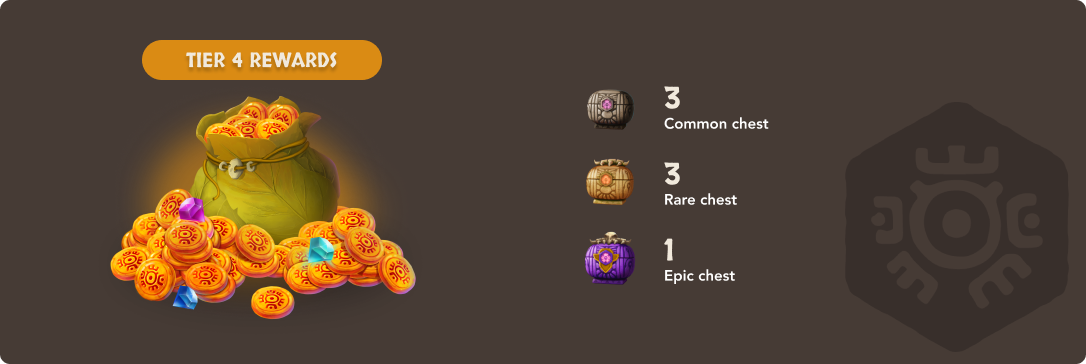
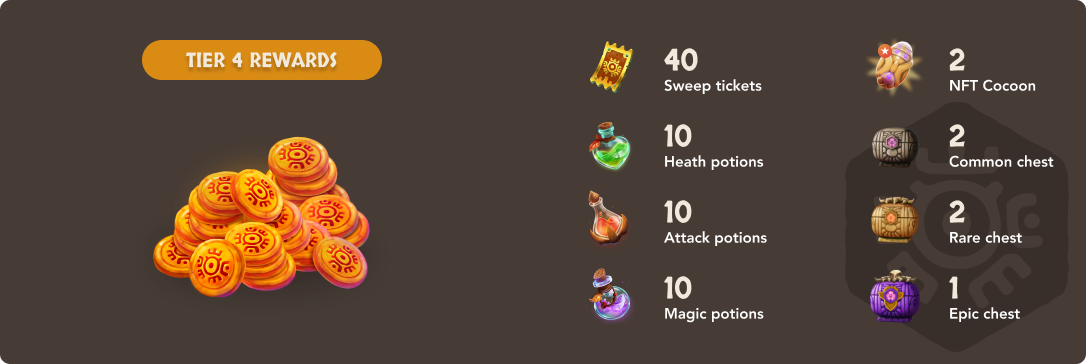
Update UI

diff --git a/src/components/StakeView/StakeView.js b/src/components/StakeView/StakeView.js
@@ -1,6 +1,14 @@
 import React, { useCallback, useEffect, useLayoutEffect, useRef, useState } from 'react';
 import './StakeView.css';
-import { Container, Tooltip, styled, Accordion, AccordionSummary, AccordionDetails } from '@mui/material';
+import {
+  Container,
+  Tooltip,
+  styled,
+  Accordion,
+  AccordionSummary,
+  AccordionDetails,
+  ClickAwayListener,
+} from '@mui/material';
 import { QuestionMark, ExpandMore } from '@mui/icons-material';
 import Stake from '../stake/Stake';
 import PoolInfor from '../poolInfor/poolInfor';
@@ -106,7 +114,7 @@ const accordContents = [
         <br />
         <br />
         In addition, the benefits from OKG staking program are not only from the OKG token rewards (APR) but also the
-        bonus valuable in-game items.
+        bonus valuable NFT & ingame items.
         <br />
         <br />
         Item rewards scheme{' '}
@@ -120,19 +128,19 @@ const accordContents = [
   {
     title: '2. How can I receive the OKG token rewards?',
     description:
-      'Rewards will be calculated based on your staked amount, then automatically added when you un-stake your token at the expiry time.\n\nYour reward = Your Staked Amount * APR / 365\n\nAPR is up to ....%. APR is totally dependent on the total amount of investment in the pool.',
+      'Rewards will be calculated based on your staked amount, then automatically added when you un-stake your token at the expiry time.\n\nYour reward = Your Staked Amount * APR / 365\n\nAPR is totally dependent on the total amount of investment in the pool.',
   },
   {
-    title: '3. How can I receive the in-game item rewards?',
+    title: '3. How can I receive the in-game item and NFT item rewards?',
     description:
-      'The in-game item rewards will be transferred into your game account which linked your wallet after the game launched.\n\nMore details about the use of items here.',
+      'The in-game item rewards will be transferred into your game account which linked your wallet after the game launched.\n\nThe NFT item rewards will be airdropped into your crypto wallet after the game launched.\n\nThe detail reward schedule will be announced on Ookeenga social media.',
   },
   {
     title: '4. When can I un-stake my OKG token?',
     description: 'You are able to un-stake your token at the expiry time.',
   },
   {
-    title: '5. How to stake?',
+    title: '5. How can I stake OKG?',
     description: (
       <div>
         Step 1. Go to{' '}
@@ -149,7 +157,7 @@ const accordContents = [
     ),
   },
   {
-    title: '6. How to unstake?',
+    title: '6. How can I unstake OKG?',
     description: (
       <div>
         Step 1. Go to{' '}
@@ -171,7 +179,6 @@ const slides = [
   '/assets/images/slide-image-1.png',
   '/assets/images/slide-image-2.png',
   '/assets/images/slide-image-3.png',
-  '/assets/images/slide-image-4.png',
 ];
 
 const SingleAccord = ({ title, description }) => (
@@ -196,8 +203,16 @@ const StakeView = () => {
   const [activeTier, setActiveTier] = useState(tierList[0].code);
   const [stakeStatus, setStakeStatus] = useState();
   const [poolStatus, setPoolStatus] = useState();
-
   const [triggerRender, setTriggerRender] = useState({});
+  const [openTooltip, setOpenTooltip] = useState(false);
+
+  const handleTooltipClose = () => {
+    setOpenTooltip(false);
+  };
+
+  const handleTooltipOpen = () => {
+    setOpenTooltip(true);
+  };
 
   const getPoolStatus = useCallback(() => {
     const now = DateTime.now().toSeconds();
@@ -297,6 +312,35 @@ const StakeView = () => {
     setActiveTier(tierList[prevTierIndex].code);
   };
 
+  const AlterTooltip = ({ isClickable }) => (
+    <ClickAwayListener onClickAway={handleTooltipClose}>
+      <Tooltip
+        {...(isClickable
+          ? {
+              PopperProps: {
+                disablePortal: true,
+              },
+              onClose: handleTooltipClose,
+              open: openTooltip,
+              disableFocusListener: true,
+              disableHoverListener: true,
+              disableTouchListener: true,
+            }
+          : {})}
+        title={<img src='/assets/images/bonus-tooltip.png' alt='bonus-tooltip' />}
+        placement={`${isClickable ? 'left' : 'right'}-start`}
+      >
+        <div
+          className='absolute top-1/2 right-0 md:left-0 flex justify-center items-center h-5 md:h-7 w-5 md:w-7 bg-color-dark rounded-full'
+          style={{ transform: 'translateY(-50%)' }}
+          {...(isClickable ? { onClick: handleTooltipOpen } : {})}
+        >
+          <QuestionMark className='text-color-primary text-xl md:text-2xl' />
+        </div>
+      </Tooltip>
+    </ClickAwayListener>
+  );
+
   return (
     <div
       style={{
@@ -338,18 +382,11 @@ const StakeView = () => {
           }}
         >
           <div className='relative font-skadi text-center' style={{ fontSize: isMobile ? 20 : 32 }}>
-            <Tooltip title={<img src='/assets/images/bonus-tooltip.png' alt='bonus-tooltip' />} placement='right-start'>
-              <div
-                className='absolute top-1/2 right-0 md:left-0 flex justify-center items-center h-5 md:h-7 w-5 md:w-7 bg-color-dark rounded-full'
-                style={{ transform: 'translateY(-50%)' }}
-              >
-                <QuestionMark className='text-color-primary text-xl md:text-2xl' />
-              </div>
-            </Tooltip>
-            BONUS INGAME ITEMS
+            {isMobile ? <AlterTooltip isClickable /> : <AlterTooltip />}
+            BONUS REWARDS
           </div>
           <div className='text-center mb-3 md:mb-4 text-xs md:text-base'>
-            Stake OKG Token to receive Genesis Cocoon & valuable ingame rewards
+            Stake OKG Token to receive Genesis Cocoons & valuable ingame items
           </div>
           <div className='relative'>
             <img src={isMobile ? imageTier.imageMobile : imageTier.image} alt={activeTier} className='w-full' />

diff --git a/src/components/poolInfor/poolInfor.js b/src/components/poolInfor/poolInfor.js
@@ -1,8 +1,8 @@
-import React from 'react';
+import React, { useState } from 'react';
 import './poolInfor.css';
 import { AccessTime, HelpOutline, Layers, Lock } from '@mui/icons-material';
 import { DateTime, Duration } from 'luxon';
-import { Tooltip } from '@mui/material';
+import { ClickAwayListener, Tooltip } from '@mui/material';
 import { useSelector } from 'react-redux';
 import { contractInfosSelector } from '../../reducers/contractInfos';
 import useWindowDimensions from '../../hooks/useWindowDimensions';
@@ -28,6 +28,45 @@ const PoolInfor = () => {
       ? 405555
       : ((process.env.REACT_APP_TOTAL_REWARD * 1e18) / props.stakedTotal / Number(lockDays)) * 365 * 100;
   const apr = aprRaw > 1000 ? Math.round(aprRaw) : aprRaw.toFixed(2);
+
+  const [openTooltip, setOpenTooltip] = useState(false);
+
+  const handleTooltipClose = () => {
+    setOpenTooltip(false);
+  };
+
+  const handleTooltipOpen = () => {
+    setOpenTooltip(true);
+  };
+
+  const AlterTooltip = ({ isClickable }) => (
+    <ClickAwayListener onClickAway={handleTooltipClose}>
+      <Tooltip
+        {...(isClickable
+          ? {
+              PopperProps: {
+                disablePortal: true,
+              },
+              onClose: handleTooltipClose,
+              open: openTooltip,
+              disableFocusListener: true,
+              disableHoverListener: true,
+              disableTouchListener: true,
+            }
+          : {})}
+        title={
+          <div className='text-black font-semibold font-avenir' style={{ maxWidth: 220, fontSize: 15 }}>
+            The APR shown is an estimate and fluctuates depending on total staked amount. The APR will be determined at
+            the closing time of this pool.
+          </div>
+        }
+        placement='top'
+        arrow
+      >
+        <HelpOutline {...(isClickable ? { onClick: handleTooltipOpen } : {})} style={{ width: 19, height: 19 }} />
+      </Tooltip>
+    </ClickAwayListener>
+  );
 
   const Group1 = () => (
     <div className='flex flex-col gap-6 pr-7 md:pr-0' style={{ borderRight: '1px solid #B7A284' }}>
@@ -67,18 +106,7 @@ const PoolInfor = () => {
     <div className='text-center mb-5 md:mb-0'>
       <div className='flex gap-1 items-center justify-center text-xl font-extrabold'>
         APR
-        <Tooltip
-          title={
-            <div className='text-black font-semibold font-avenir' style={{ maxWidth: 220, fontSize: 15 }}>
-              The APR shown is an estimate and fluctuates depending on total staked amount. The APR will be determined
-              at the closing time of this pool.
-            </div>
-          }
-          placement='top'
-          arrow
-        >
-          <HelpOutline style={{ width: 19, height: 19 }} />
-        </Tooltip>
+        {isMobile ? <AlterTooltip isClickable /> : <AlterTooltip />}
       </div>
       <div
         className='font-extrabold bg-clip-text text-transparent break-all'

diff --git a/src/components/header/header.js b/src/components/header/header.js
@@ -61,7 +61,7 @@ const Header = () => {
               <>
                 <div className='flex justify-end mb-1'>
                   <IconButton onClick={handleClosePopop}>
-                    <Close />
+                    <Close className='text-color-secondary' />
                   </IconButton>
                 </div>
                 <div className='flex items-center justify-center h-full'>
